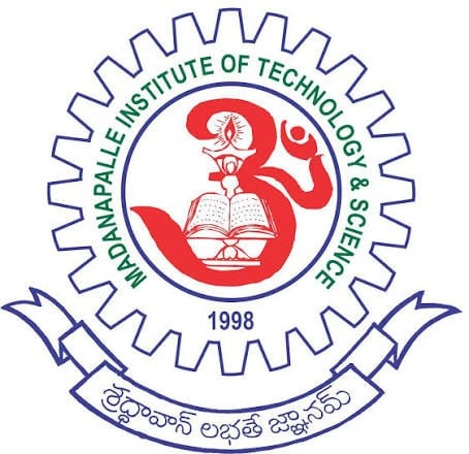
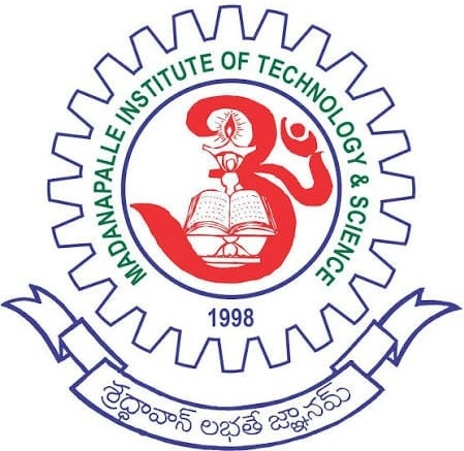
Separate poster/gallery storage paths; faculty poster uploads for own events; ownership guard; trim crest padding
- media bucket paths are now kind-namespaced: events/<id>/poster/...,
  events/<id>/gallery/... (admin-only), docs/<id>/... (admin-only)
- faculty may upload/update/delete posters only for events they own
  (storage policies keyed on events.created_by); gallery and docs stay
  admin-only; legacy un-namespaced objects remain readable and admin-writable
- events.created_by is now immutable for non-admins via trigger
  (RLS WITH CHECK already blocked claim/transfer; this is defense-in-depth)
- admin UI: gallery controls hidden from faculty; edit/delete hidden on
  events the signed-in faculty member does not own (no dead buttons)
- header crest/wordmark images trimmed of empty white margins so the
  visible emblems render slightly taller at unchanged layout size

Changed region(s): [[0.0, 0.0, 0.9957, 1.0], [0.2716, 0.6829, 0.4224, 0.8381]]

diff --git a/src/pages/Admin.jsx b/src/pages/Admin.jsx
@@ -206,6 +206,8 @@ function EventEditor({ event, onDone, onCancel }) {
 }
 
 function EventAssets({ event, onChanged }) {
+  const { isAdmin, session } = useAuth()
+  const canEdit = isAdmin || (session?.user?.id && event.created_by === session.user.id)
   const [gallery, setGallery] = useState([])
   const [error, setError] = useState('')
   const [busy, setBusy] = useState(false)
@@ -220,7 +222,7 @@ function EventAssets({ event, onChanged }) {
     if (!file) return
     setBusy(true); setError('')
     try {
-      const path = await uploadMedia('events', event.id, file)
+      const path = await uploadMedia(kind, event.id, file)
       if (kind === 'poster') {
         await updateEvent(event.id, { poster_path: path })
       } else {
@@ -260,20 +262,30 @@ function EventAssets({ event, onChanged }) {
       <div className="card-head"><Icon name="image" size={18} /><h3>Poster and gallery</h3></div>
       {error && <p className="notice">{error}</p>}
       <p>Current poster: {event.poster_path ? <code>{event.poster_path}</code> : 'none'}</p>
-      <label>Upload poster <input type="file" accept="image/*" disabled={busy} onChange={(e) => upload(e, 'poster')} /></label>
-      <label>Add gallery image <input type="file" accept="image/*" disabled={busy} onChange={(e) => upload(e, 'gallery')} /></label>
+      {canEdit && (
+        <label>Upload poster <input type="file" accept="image/*" disabled={busy} onChange={(e) => upload(e, 'poster')} /></label>
+      )}
+      {isAdmin && (
+        <label>Add gallery image <input type="file" accept="image/*" disabled={busy} onChange={(e) => upload(e, 'gallery')} /></label>
+      )}
       <ul className="admin-list">
         {gallery.map((g, i) => (
           <li key={g.id} className="gallery-item">
             <GalleryThumb image={g} />
-            <GalleryMeta image={g} onSaved={refresh} disabled={busy} />
-            <span className="gallery-order">
-              <button type="button" className="icon-btn" title="Move up" disabled={busy || i === 0}
-                onClick={() => move(g, gallery[i - 1])}>&uarr;</button>
-              <button type="button" className="icon-btn" title="Move down" disabled={busy || i === gallery.length - 1}
-                onClick={() => move(g, gallery[i + 1])}>&darr;</button>
-            </span>
-            <button type="button" disabled={busy} onClick={() => remove(g)}>Remove</button>
+            {isAdmin ? (
+              <>
+                <GalleryMeta image={g} onSaved={refresh} disabled={busy} />
+                <span className="gallery-order">
+                  <button type="button" className="icon-btn" title="Move up" disabled={busy || i === 0}
+                    onClick={() => move(g, gallery[i - 1])}>&uarr;</button>
+                  <button type="button" className="icon-btn" title="Move down" disabled={busy || i === gallery.length - 1}
+                    onClick={() => move(g, gallery[i + 1])}>&darr;</button>
+                </span>
+                <button type="button" disabled={busy} onClick={() => remove(g)}>Remove</button>
+              </>
+            ) : (
+              <span className="muted">{g.caption || g.alt_text || ''}</span>
+            )}
           </li>
         ))}
       </ul>    </section>
@@ -642,6 +654,9 @@ function AdminStats({ events }) {
 }
 
 export function AdminEventsTable({ events, onNew, onEdit, onDelete, onDuplicate, busy }) {
+  const { isAdmin, session } = useAuth()
+  const uid = session?.user?.id
+  const canModify = (e) => isAdmin || (uid && e.created_by === uid)
   const [query, setQuery] = useState('')
   const [cat, setCat] = useState('')
   const categories = [...new Set(events.map((e) => e.category).filter(Boolean))].sort()
@@ -687,15 +702,20 @@ export function AdminEventsTable({ events, onNew, onEdit, onDelete, onDuplicate,
               <td className="cell-muted">{e.venue || '-'}</td>
               <td>
                 <div className="row-actions">
-                  <button type="button" className="icon-btn" title="Edit event" onClick={() => onEdit(e)} disabled={busy}>
-                    <Icon name="edit" size={16} />
-                  </button>
+                  {canModify(e) && (
+                    <button type="button" className="icon-btn" title="Edit event" onClick={() => onEdit(e)} disabled={busy}>
+                      <Icon name="edit" size={16} />
+                    </button>
+                  )}
                   <button type="button" className="icon-btn" title="Duplicate as draft" onClick={() => onDuplicate(e)} disabled={busy}>
                     <Icon name="copy" size={16} />
                   </button>
-                  <button type="button" className="icon-btn danger" title="Delete event" onClick={() => onDelete(e)} disabled={busy}>
-                    <Icon name="trash" size={16} />
-                  </button>
+                  {canModify(e) && (
+                    <button type="button" className="icon-btn danger" title="Delete event" onClick={() => onDelete(e)} disabled={busy}>
+                      <Icon name="trash" size={16} />
+                    </button>
+                  )}
+                  {!canModify(e) && <span className="cell-muted">managed by {e.created_by ? 'another editor' : 'admin'}</span>}
                 </div>
               </td>
             </tr>

diff --git a/src/lib/api.js b/src/lib/api.js
@@ -153,11 +153,15 @@ export async function listRecentPhotos(limit = 6) {
   return data
 }
 
-// Upload a file into the private "media" bucket. prefix is 'events' (posters,
-// gallery) or 'docs' (report PDFs - storage policy keeps docs/ admin-only).
-export async function uploadMedia(prefix, eventId, file) {
+// Upload a file into the private "media" bucket. kind is 'poster', 'gallery'
+// or 'docs'. Paths are kind-namespaced so storage RLS can tell them apart:
+//   events/<eventId>/poster/...  - faculty may write only for events they own
+//   events/<eventId>/gallery/... - admin-only
+//   docs/<eventId>/...           - admin-only
+export async function uploadMedia(kind, eventId, file) {
   const safeName = file.name.replace(/[^a-zA-Z0-9._-]/g, '_')
-  const path = `${prefix}/${eventId}/${Date.now()}-${safeName}`
+  const leaf = `${Date.now()}-${safeName}`
+  const path = kind === 'docs' ? `docs/${eventId}/${leaf}` : `events/${eventId}/${kind}/${leaf}`
   const { error } = await supabase.storage.from('media').upload(path, file)
   if (error) throw error
   return path
